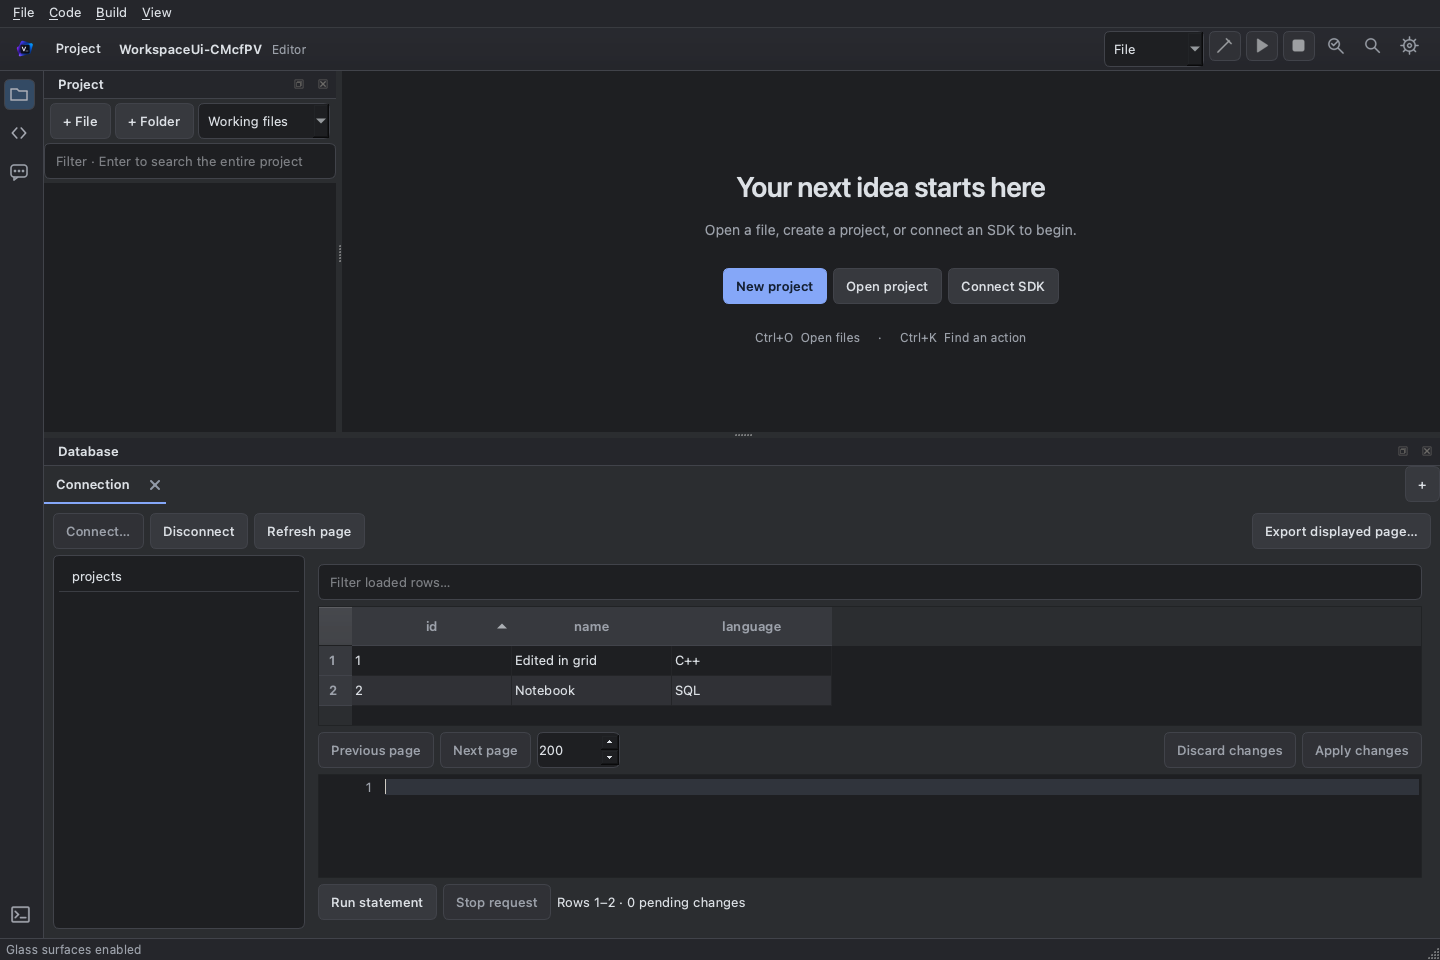
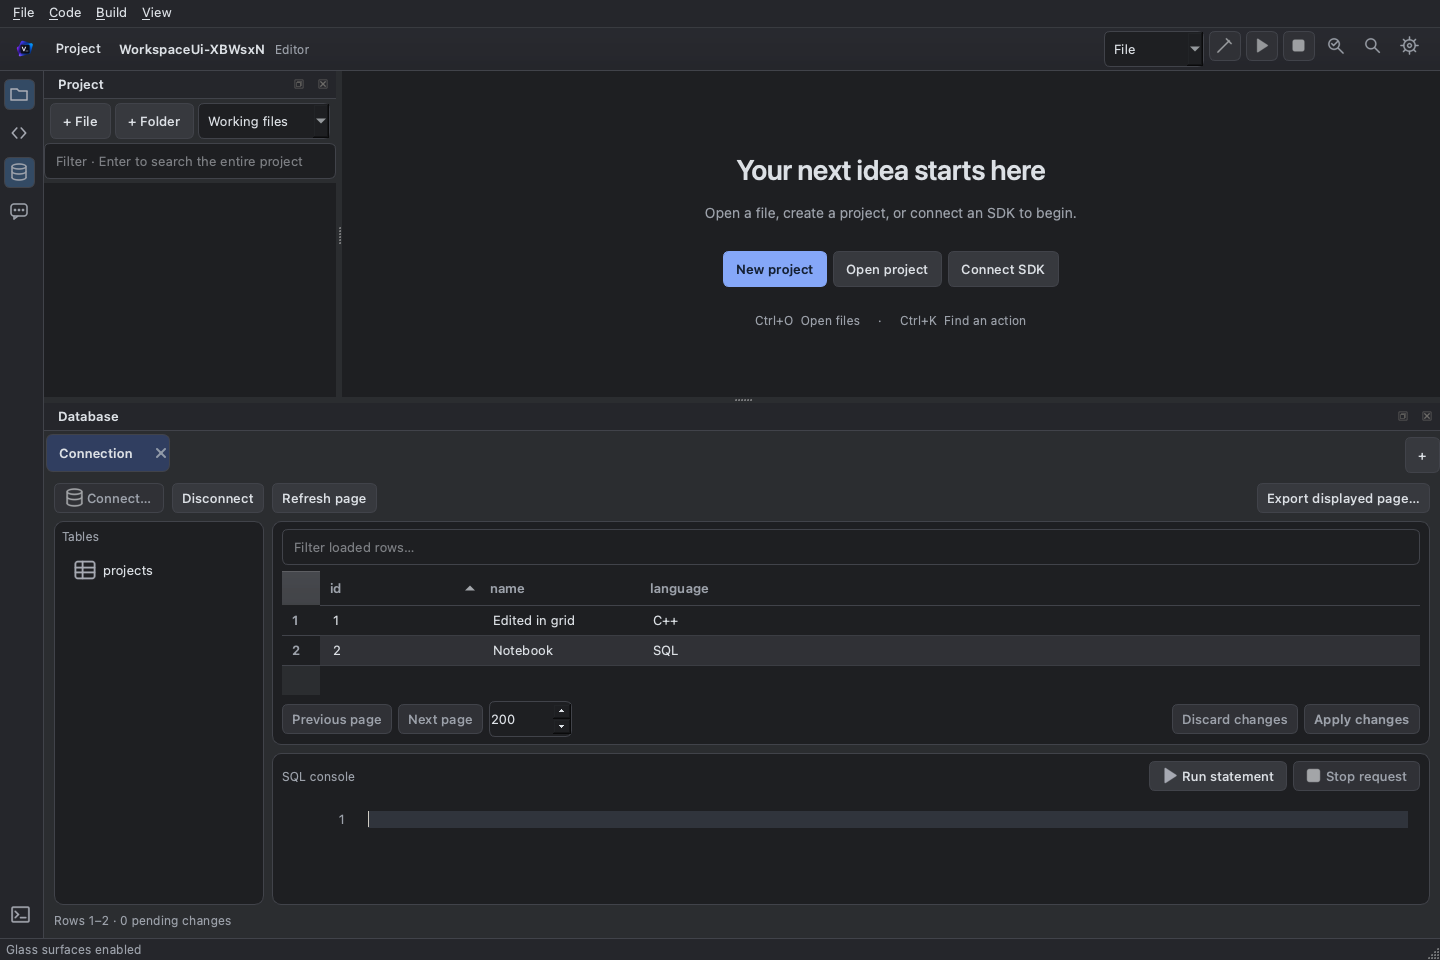
polish workspace

diff --git a/src/gui/ThemeManager.cpp b/src/gui/ThemeManager.cpp
@@ -52,10 +52,10 @@ QPushButton[class="toolbarIcon"]:hover,QToolButton:hover {background:${raised};b
 QToolButton:checked {background:${selection};border-color:${border};}
 QToolButton::menu-indicator {image:none;width:0;height:0;}
 QTabBar#documentTabs {background:${sidebar};border-bottom:1px solid ${border};}
-QTabBar#documentTabs::tab {background:${sidebar};padding:9px 16px;margin:5px 3px 0 3px;min-height:18px;border:0;border-top-left-radius:8px;border-top-right-radius:8px;}
+QTabBar#documentTabs::tab {background:${sidebar};padding:8px 16px;margin:5px 3px 5px 3px;min-height:18px;border:1px solid transparent;border-radius:8px;}
 QTabBar::close-button {image:url(:/branding/close.svg);width:12px;height:12px;padding:2px;border-radius:5px;}
 QTabBar#documentTabs::close-button:hover {background:${raised};}
-QTabBar#documentTabs::tab:selected {background:${editor};border-bottom:2px solid ${accent};}
+QTabBar#documentTabs::tab:selected {background:${editor};border:1px solid ${border};color:${text};}
 QTreeView {background:${sidebar};show-decoration-selected:1;}
 QTreeView::item {min-height:25px;padding:2px 8px;border-radius:5px;margin:1px 5px;}
 QFrame#sourceInspection {background:${sidebar};}
@@ -84,6 +84,7 @@ QPushButton:pressed,QToolButton:pressed {background:${selection};}
 QPushButton:disabled,QToolButton:disabled {color:${muted};background:${surface};border-color:${border};}
 QPushButton[class="primary"] {background:${accent};color:${barText};border-color:${accent};font-weight:650;}
 QPushButton[class="primary"]:hover {border-color:${text};}
+QPushButton[class="primary"]:disabled {background:${surface};color:${muted};border-color:${border};}
 QPushButton[class="nav"] {background:transparent;color:${muted};border:1px solid transparent;border-radius:6px;text-align:left;padding:6px 10px;min-height:24px;}
 QPushButton[class="nav"]:hover {background:${raised};color:${text};}
 QPushButton[class="nav"]:checked {background:${accentSoft};border:1px solid ${border};color:${text};font-weight:650;}
@@ -91,7 +92,7 @@ QComboBox,QSpinBox,QLineEdit,QTextEdit {background:${editor};color:${text};borde
 QComboBox {padding-right:24px;}
 QComboBox:focus,QSpinBox:focus,QLineEdit:focus,QTextEdit:focus {border-color:${accent};}
 QComboBox QAbstractItemView {background:${surface};color:${text};selection-background-color:${selection};padding:4px;}
-QTableWidget,QTreeWidget,QTreeView {background:${editor};alternate-background-color:${surface};color:${text};border:0;gridline-color:${grid};selection-background-color:${selection};selection-color:${text};}
+QTableWidget,QTableView,QTreeWidget,QTreeView {background:${editor};alternate-background-color:${surface};color:${text};border:0;gridline-color:${grid};selection-background-color:${selection};selection-color:${text};}
 QHeaderView::section {background:${raised};color:${muted};border:0;border-bottom:1px solid ${border};padding:9px 10px;font-weight:600;}
 QTreeWidget::item,QTreeView::item {min-height:26px;padding:3px 6px;}
 QTreeWidget::item:hover,QTreeView::item:hover {background:${raised};}
@@ -99,7 +100,7 @@ QTreeWidget::item:selected,QTreeView::item:selected {background:${selection};col
 QListWidget {background:${editor};color:${text};border:1px solid ${border};border-radius:6px;outline:0;padding:5px;}
 QListWidget::item {padding:7px 10px;border-bottom:1px solid ${grid};}
 QListWidget::item:selected {background:${selection};color:${text};}
-QPlainTextEdit#codeEditor,QPlainTextEdit#ideConsole {background:${editor};color:${text};border:0;selection-background-color:${selection};padding:10px;font-family:"${mono}";font-size:14px;}
+CodeEditor,QPlainTextEdit#codeEditor,QPlainTextEdit#ideConsole {background:${editor};color:${text};border:0;selection-background-color:${selection};padding:10px;font-family:"${mono}";font-size:14px;}
 QPlainTextEdit#codeEditor QWidget {font-family:"${mono}";}
 QPlainTextEdit#agentQuestion,QPlainTextEdit#agentPatchPreview {background:${editor};color:${text};border:1px solid ${border};border-radius:6px;padding:7px;selection-background-color:${selection};}
 QPlainTextEdit#agentPatchPreview {font-family:"${mono}";}
@@ -126,10 +127,19 @@ QLineEdit#commandSearch {background:${editor};font-size:16px;padding:7px 10px;mi
 QListWidget#commandResults {background:transparent;border:0;padding:4px;}
 QListWidget#commandResults::item {padding:7px 10px;}
 QListWidget#commandResults::item:selected {background:${selection};color:${text};}
-QTabBar::tab {background:transparent;color:${muted};padding:6px 12px;border-bottom:2px solid transparent;min-height:24px;}
-QTabBar::tab:selected {color:${text};border-bottom:2px solid ${accent};font-weight:650;}
+QTabBar::tab {background:transparent;color:${muted};padding:6px 12px;border:1px solid transparent;border-radius:7px;margin:3px 2px;min-height:24px;}
+QTabBar::tab:selected {color:${text};background:${accentSoft};border:1px solid ${border};font-weight:650;}
 QTabBar::tab:hover {background:${accentSoft};}
 QTabWidget::pane {border:0;background:transparent;}
+QWidget#databaseBrowser,QWidget#databaseData,QWidget#databaseConsole {background:${editor};border:1px solid ${border};border-radius:9px;}
+QListWidget#databaseTables {border:0;background:transparent;padding:0;}
+QListWidget#databaseTables::item {border:0;border-radius:5px;margin:2px 0;padding:5px 8px;}
+QListWidget#databaseTables::item:hover {background:${raised};}
+QTableView#databaseGrid {border:0;outline:0;selection-background-color:${selection};}
+QTableView#databaseGrid::item {padding:5px 10px;border-bottom:1px solid ${grid};}
+QWidget#databasePanel QPushButton {padding:3px 9px;min-height:22px;}
+QWidget#databasePanel QHeaderView::section {background:${editor};padding:7px 10px;}
+QWidget#databasePanel QSplitter::handle {width:8px;height:8px;}
 QToolButton#toggleOutput {padding:2px 9px;min-height:18px;font-size:12px;}
 QDockWidget {color:${text};font-weight:600;}
 QDockWidget::title {background:${sidebar};padding:6px 10px;border-bottom:1px solid ${border};text-align:left;}

diff --git a/src/gui/DatabasePanel.cpp b/src/gui/DatabasePanel.cpp
@@ -1,5 +1,6 @@
 #include "DatabasePanel.hpp"
 #include "CodeEditor.hpp"
+#include "UiIcons.hpp"
 #include "UiLanguage.hpp"
 #include <QApplication>
 #include <QClipboard>
@@ -146,9 +147,12 @@ DatabasePanel::DatabasePanel(QWidget* parent) : QWidget(parent) {
     setObjectName("databasePanel");
     session_ = new DatabaseSession(this);
     auto* layout = new QVBoxLayout(this);
+    layout->setContentsMargins(10, 8, 10, 10);
+    layout->setSpacing(8);
     auto* bar = new QHBoxLayout;
     connect_ = new QPushButton(UiLanguage::tr("Connect…"));
     connect_->setObjectName("databaseConnect");
+    connect_->setIcon(tsui::icon("database"));
     disconnect_ = new QPushButton(UiLanguage::tr("Disconnect"));
     refresh_ = new QPushButton(UiLanguage::tr("Refresh page"));
     auto* exportButton = new QPushButton(UiLanguage::tr("Export displayed page…"));
@@ -161,11 +165,25 @@ DatabasePanel::DatabasePanel(QWidget* parent) : QWidget(parent) {
     bar->addWidget(exportButton);
     layout->addLayout(bar);
     auto* split = new QSplitter;
+    split->setChildrenCollapsible(false);
+    auto* browser = new QWidget;
+    browser->setObjectName("databaseBrowser");
+    auto* browserLayout = new QVBoxLayout(browser);
+    browserLayout->setContentsMargins(8, 8, 8, 8);
+    auto* tablesTitle = new QLabel(UiLanguage::tr("Tables"));
+    tablesTitle->setProperty("class", "caption");
+    browserLayout->addWidget(tablesTitle);
     tables_ = new QListWidget;
     tables_->setObjectName("databaseTables");
-    split->addWidget(tables_);
+    browserLayout->addWidget(tables_, 1);
+    split->addWidget(browser);
+    auto* panes = new QSplitter(Qt::Vertical);
+    panes->setObjectName("databasePanes");
+    panes->setChildrenCollapsible(false);
     auto* right = new QWidget;
+    right->setObjectName("databaseData");
     auto* content = new QVBoxLayout(right);
+    content->setContentsMargins(10, 8, 10, 8);
     auto* filter = new QLineEdit;
     filter->setPlaceholderText(UiLanguage::tr("Filter loaded rows…"));
     content->addWidget(filter);
@@ -180,6 +198,13 @@ DatabasePanel::DatabasePanel(QWidget* parent) : QWidget(parent) {
     grid_->setModel(proxy_);
     grid_->setSortingEnabled(true);
     grid_->setAlternatingRowColors(true);
+    grid_->setShowGrid(false);
+    grid_->setWordWrap(false);
+    grid_->verticalHeader()->setDefaultSectionSize(30);
+    grid_->verticalHeader()->setMinimumWidth(38);
+    grid_->horizontalHeader()->setHighlightSections(false);
+    grid_->horizontalHeader()->setDefaultAlignment(Qt::AlignLeft | Qt::AlignVCenter);
+    grid_->horizontalHeader()->setStretchLastSection(true);
     grid_->setMinimumHeight(120);
     grid_->horizontalHeader()->setSectionResizeMode(QHeaderView::Interactive);
     grid_->horizontalHeader()->setDefaultSectionSize(160);
@@ -192,6 +217,7 @@ DatabasePanel::DatabasePanel(QWidget* parent) : QWidget(parent) {
     limit_->setRange(25, 2000);
     limit_->setValue(200);
     apply_ = new QPushButton(UiLanguage::tr("Apply changes"));
+    apply_->setProperty("class", "primary");
     apply_->setObjectName("databaseApply");
     discard_ = new QPushButton(UiLanguage::tr("Discard changes"));
     paging->addWidget(previous_);
@@ -201,6 +227,11 @@ DatabasePanel::DatabasePanel(QWidget* parent) : QWidget(parent) {
     paging->addWidget(discard_);
     paging->addWidget(apply_);
     content->addLayout(paging);
+    panes->addWidget(right);
+    auto* console = new QWidget;
+    console->setObjectName("databaseConsole");
+    auto* consoleLayout = new QVBoxLayout(console);
+    consoleLayout->setContentsMargins(10, 8, 10, 8);
     auto* editor = new CodeEditor;
     editor->setGitAnnotationsAvailable(false);
     editor->setLanguage(ts::LanguageId::Sql);
@@ -216,21 +247,33 @@ DatabasePanel::DatabasePanel(QWidget* parent) : QWidget(parent) {
             names << model_->headerData(i, Qt::Horizontal, Qt::DisplayRole).toString();
         editor->setCompletionWords(names);
     });
-    content->addWidget(sql_);
     auto* queryBar = new QHBoxLayout;
+    auto* consoleTitle = new QLabel(UiLanguage::tr("SQL console"));
+    consoleTitle->setProperty("class", "caption");
+    queryBar->addWidget(consoleTitle);
+    queryBar->addStretch();
     run_ = new QPushButton(UiLanguage::tr("Run statement"));
+    run_->setIcon(tsui::icon("play"));
     run_->setObjectName("databaseRun");
     stop_ = new QPushButton(UiLanguage::tr("Stop request"));
+    stop_->setIcon(tsui::icon("stop"));
     status_ = new QLabel(UiLanguage::tr("Choose a database driver and connection."));
     status_->setWordWrap(true);
     status_->setTextFormat(Qt::PlainText);
     queryBar->addWidget(run_);
     queryBar->addWidget(stop_);
-    queryBar->addWidget(status_, 1);
-    content->addLayout(queryBar);
-    split->addWidget(right);
-    split->setSizes({180, 800});
+    consoleLayout->addLayout(queryBar);
+    consoleLayout->addWidget(sql_, 1);
+    panes->addWidget(console);
+    panes->setSizes({300, 160});
+    panes->setStretchFactor(0, 3);
+    panes->setStretchFactor(1, 1);
+    split->addWidget(panes);
+    split->setSizes({210, 1000});
+    split->setStretchFactor(1, 1);
     layout->addWidget(split, 1);
+    status_->setProperty("class", "caption");
+    layout->addWidget(status_);
     connect(connect_, &QPushButton::clicked, this, &DatabasePanel::configure);
     connect(disconnect_, &QPushButton::clicked, this, [this] {
         if (allowDiscard()) {
@@ -312,7 +355,7 @@ DatabasePanel::DatabasePanel(QWidget* parent) : QWidget(parent) {
             model_->load({});
             page_ = {};
             for (const auto& table : result.value("tables").toArray())
-                tables_->addItem(table.toString());
+                tables_->addItem(new QListWidgetItem(tsui::icon("table"), table.toString()));
             status_->setText(UiLanguage::tr("Connected. Open a table or run a SQL statement."));
         } else if (kind == "page") {
             page_ = result;

diff --git a/tests/ide_workflow_tests.cpp b/tests/ide_workflow_tests.cpp
@@ -11,17 +11,22 @@
 #include <QJsonDocument>
 #include <QLabel>
 #include <QMenuBar>
+#include <QScopeGuard>
 #include <QSettings>
+#include <QStandardPaths>
 #include <QTabBar>
 #include <QTemporaryDir>
 #include <QTest>
+#include <QUuid>
 #include <iostream>
 #include <stdexcept>
 
 int main(int argc, char** argv) {
     QApplication app(argc, argv);
     app.setOrganizationName("VeyraTests");
-    app.setApplicationName("IdeWorkflow");
+    app.setApplicationName("IdeWorkflow-" + QUuid::createUuid().toString(QUuid::Id128));
+    const auto sessionDirectory = QStandardPaths::writableLocation(QStandardPaths::AppDataLocation);
+    const auto cleanup = qScopeGuard([&] { QDir(sessionDirectory).removeRecursively(); });
     QTemporaryDir settings, projects;
     QSettings::setDefaultFormat(QSettings::IniFormat);
     QSettings::setPath(QSettings::IniFormat, QSettings::UserScope, settings.path());
@@ -68,6 +73,8 @@ int main(int argc, char** argv) {
         editor->openFileRequested(entry);
         app.processEvents();
         check(!editor->isReadOnly(), "Opening a file activates the editor");
+        check(!editor->document()->isModified() && !editor->document()->isUndoAvailable(),
+              "Editor presentation leaves a newly opened document clean with an empty undo history");
         ts::Array<ts::Diagnostic> diagnostics;
         diagnostics.pushBack(
             {ts::RiskLevel::Critical, 1, "test", "Unresolved symbol", "Compiler diagnostic", ""});

diff --git a/tests/workspace_ui_tests.cpp b/tests/workspace_ui_tests.cpp
@@ -24,6 +24,7 @@
 #include <QTemporaryDir>
 #include <QTest>
 #include <QTimer>
+#include <QToolButton>
 #include <QTreeWidget>
 #include <cstring>
 #include <iostream>
@@ -81,8 +82,13 @@ int main(int argc, char** argv) {
         app.processEvents();
         auto* dock = window.findChild<QDockWidget*>("databaseDock");
         require(dock, "Database dock is integrated");
-        dock->show();
-        dock->raise();
+        auto* databaseButton = window.findChild<QToolButton*>("railDatabase");
+        require(databaseButton, "Database tool is available on the left rail");
+        databaseButton->click();
+        require(dock->isVisible() && databaseButton->isChecked(), "Rail opens the database tool window");
+        dock->hide();
+        require(!databaseButton->isChecked(), "Rail follows database tool window visibility");
+        databaseButton->click();
         auto* panel = window.findChild<DatabasePanel*>("databasePanel");
         require(panel, "Database connection panel exists");
         QTimer::singleShot(0, panel, [&] {

diff --git a/src/gui/UiIcons.hpp b/src/gui/UiIcons.hpp
@@ -15,7 +15,18 @@ inline QIcon icon(const QString& name, const QColor& ink = QColor("#A6A9B2")) {
     p.scale(2, 2);
     p.setBrush(Qt::NoBrush);
     p.setPen(QPen(ink, 1.55, Qt::SolidLine, Qt::RoundCap, Qt::RoundJoin));
-    if (name == "close") {
+    if (name == "database") {
+        p.drawEllipse(QRectF(3, 2, 14, 5));
+        p.drawLine(QPointF(3, 4.5), QPointF(3, 15.5));
+        p.drawLine(QPointF(17, 4.5), QPointF(17, 15.5));
+        p.drawArc(QRectF(3, 7, 14, 5), 180 * 16, 180 * 16);
+        p.drawArc(QRectF(3, 13, 14, 5), 180 * 16, 180 * 16);
+    } else if (name == "table") {
+        p.drawRoundedRect(QRectF(2, 3, 16, 14), 2, 2);
+        p.drawLine(QPointF(2, 8), QPointF(18, 8));
+        p.drawLine(QPointF(2, 12), QPointF(18, 12));
+        p.drawLine(QPointF(8, 3), QPointF(8, 17));
+    } else if (name == "close") {
         p.drawLine(QPointF(5, 5), QPointF(15, 15));
         p.drawLine(QPointF(15, 5), QPointF(5, 15));
     } else if (name == "folder") {

diff --git a/src/gui/MainWindow.cpp b/src/gui/MainWindow.cpp
@@ -459,6 +459,23 @@ QWidget* MainWindow::buildSidebar() {
             }
         }
     });
+    auto* database = new WorkspaceToolButton;
+    database->setObjectName("railDatabase");
+    database->setProperty("tsIcon", "database");
+    database->setIcon(tsui::icon("database"));
+    database->setIconSize(QSize(20, 20));
+    database->setToolTip(UiLanguage::tr("Database"));
+    database->setAccessibleName(UiLanguage::tr("Database"));
+    database->setCheckable(true);
+    layout->addWidget(database);
+    connect(database, &QToolButton::clicked, this, [this, database] {
+        if (databaseDock_) {
+            const bool show = database->isChecked();
+            databaseDock_->setVisible(show);
+            if (show)
+                databaseDock_->raise();
+        }
+    });
     auto* assistant = new WorkspaceToolButton;
     assistant->setObjectName("railAgent");
     assistant->setProperty("tsIcon", "assistant");

diff --git a/src/gui/DataWorkspace.cpp b/src/gui/DataWorkspace.cpp
@@ -4,6 +4,7 @@
 #include <QDockWidget>
 #include <QPushButton>
 #include <QTabWidget>
+#include <QToolButton>
 
 void MainWindow::setupDataTools() {
     databaseDock_ = new QDockWidget(UiLanguage::tr("Database"), this);
@@ -42,4 +43,8 @@ void MainWindow::setupDataTools() {
     if (outputDock_)
         tabifyDockWidget(outputDock_, databaseDock_);
     databaseDock_->hide();
+    connect(databaseDock_, &QDockWidget::visibilityChanged, this, [this](bool visible) {
+        if (auto* button = findChild<QToolButton*>("railDatabase"))
+            button->setChecked(visible);
+    });
 }

diff --git a/src/gui/CodeEditor.cpp b/src/gui/CodeEditor.cpp
@@ -361,7 +361,7 @@ int CodeEditor::lineNumberAreaWidth() const {
 }
 
 void CodeEditor::updateLineNumberAreaWidth(int) {
-    setViewportMargins(lineNumberAreaWidth(), 0, 0, 0);
+    setViewportMargins(lineNumberAreaWidth() + 10, 0, 0, 0);
     const auto rectangle = contentsRect();
     lineNumbers_->setGeometry(rectangle.left(), rectangle.top(), lineNumberAreaWidth(), rectangle.height());
 }
